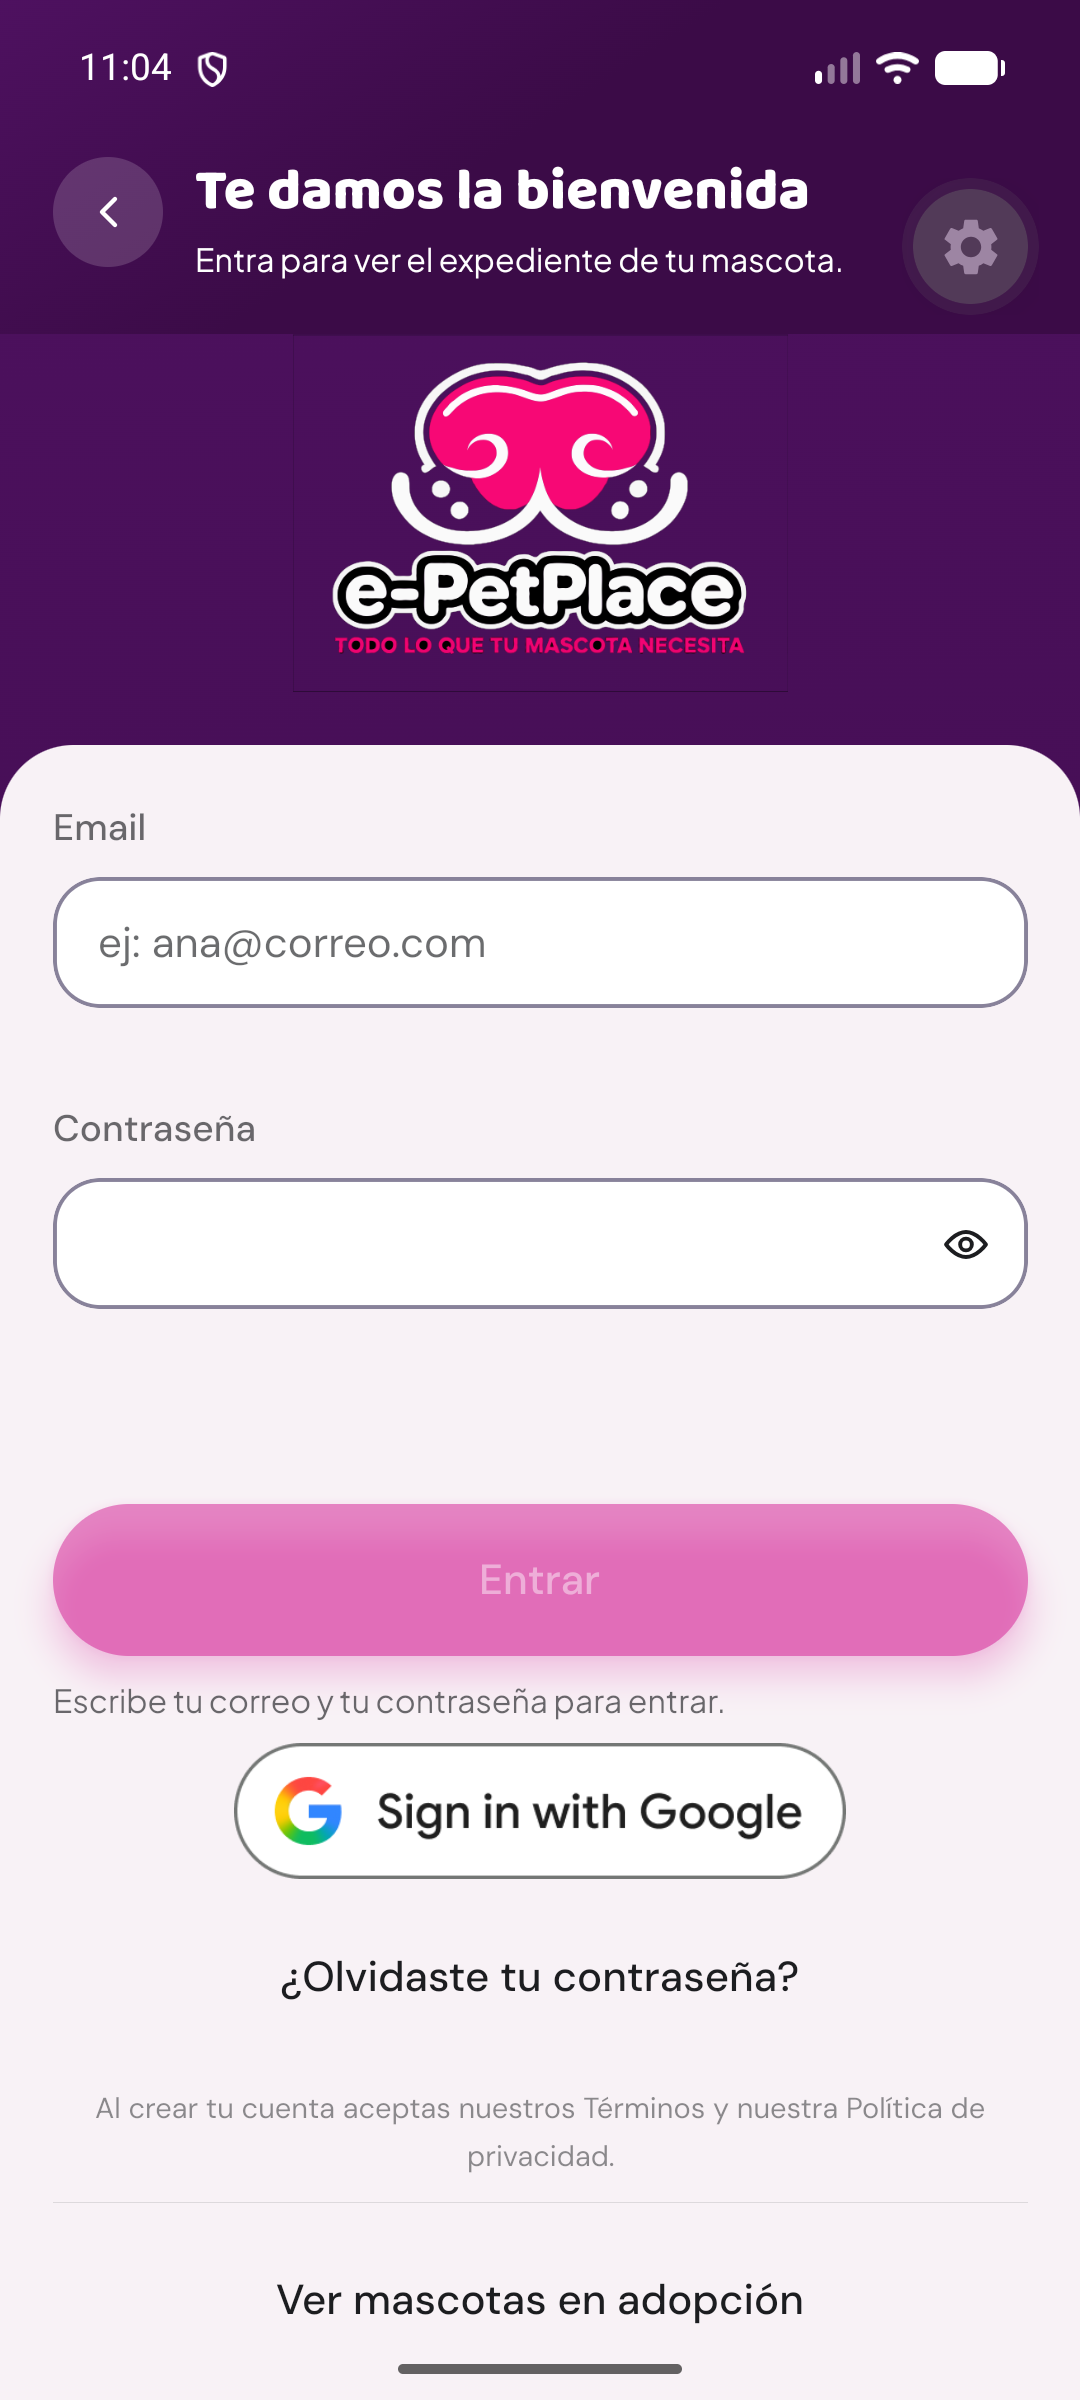
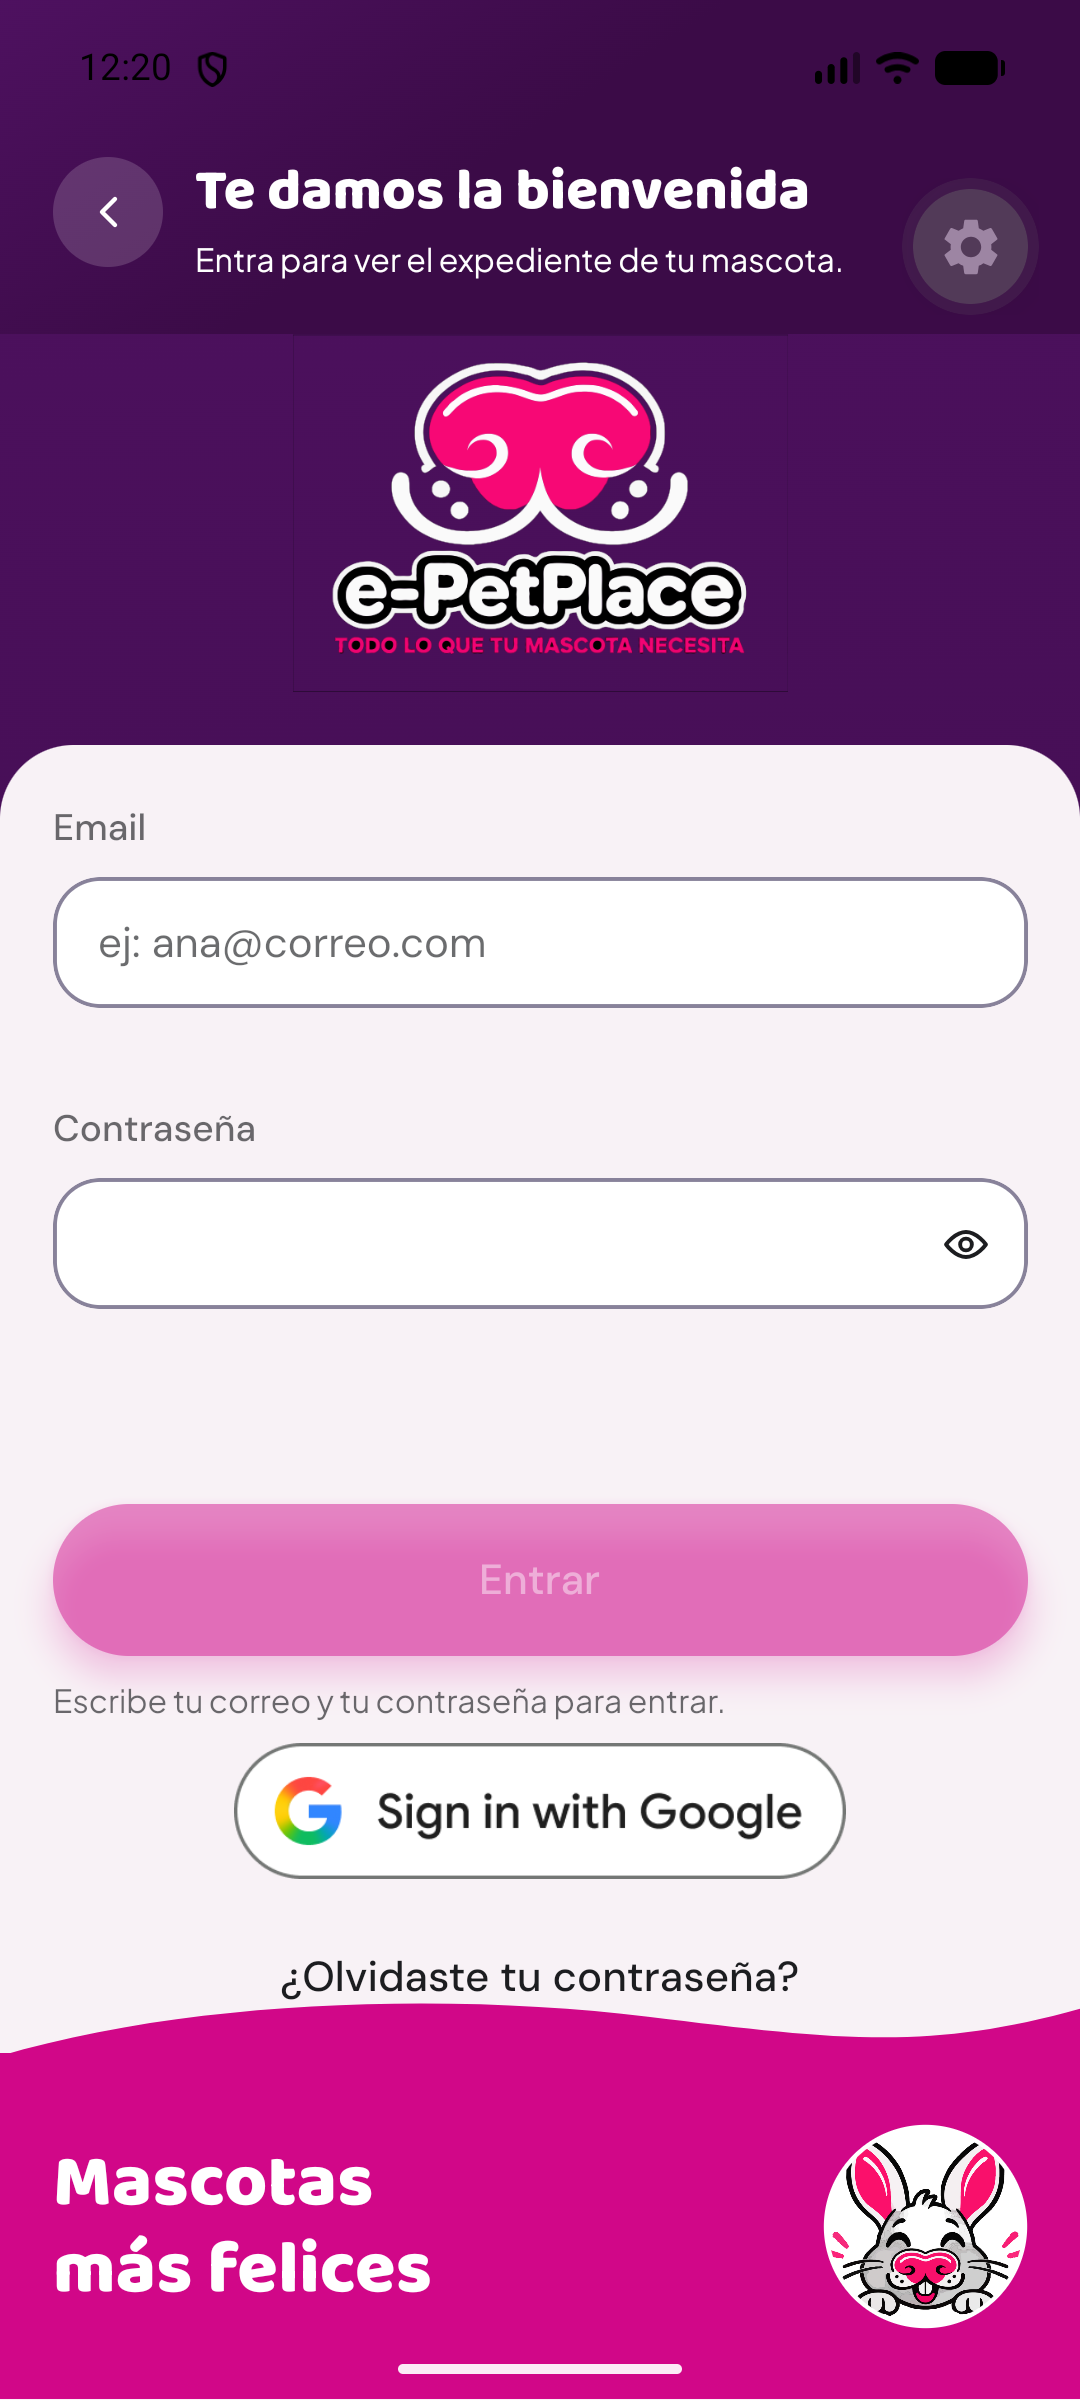
S116-C lote 3h · la onda en 03 y 05, y dos cosas que aparecieron al mirarla
OndaAcceso MONTADA Y VISTA EN EL APARATO: 03 «Mascotas / mas felices» con el
personaje a la DERECHA; 05 «Empieza / su expediente» con el personaje a la
IZQUIERDA. Va ABSOLUTA al pie y FUERA de EvitaTeclado: la pieza se cuida sola del
teclado --- alto fijo para no aplastarse, fundido para no verse salir --- y
meterla adentro la haria subir con el contenido, que es lo contrario de la orden.
El hueco lo reserva la pantalla con ALTO_ONDA_ACCESO, que la pieza exporta justo
para eso: el numero no se teclea, se pide.

⚠ Y ahi choque con R53, que pide PantallaConPie para todo pie fijo. NO APLICA:
PantallaConPie trae su PROPIO ScrollView y HojaContenido ya tiene uno ⇒ son
alternativas y no se componen. Declarado con R53-DECLARADO y su razon --- el
mecanismo que el propio gate ofrece --- y pedido a B que HojaContenido gane slot
de pie con medicion propia, con lo que la declaracion muere.

✅🔴 EL TECLADO NO LA APLASTA --- PERO SU FUNDIDO DEJA LA OLA. La mitad del alto
fijo funciona: la franja no se comprime. La otra mitad no llega a cero. Medido
por pixel, CON DISCRIMINADOR (04 no tiene onda):
      y=1505   03=(235,142,201)   04=(248,243,247)
      y=1510   03=(230,136,198)   04=(248,243,247)
Y en la ampliacion SE RECONOCE LA CURVA DE LA OLA
(onda-resto-sobre-teclado.png: 03 arriba, 04 abajo, mismo recorte).
No es mi montaje: el View absoluto no tiene opacidad propia --- el fundido es
enteramente de la pieza. Va a B con la medicion.
[…]

diff --git a/apps/cliente/src/app/registro.tsx b/apps/cliente/src/app/registro.tsx
@@ -18,12 +18,11 @@
  */
 
 import { useState } from 'react';
-import { ScrollView, Text, View } from 'react-native';
+import { Text, View } from 'react-native';
 import { useLocalSearchParams, useRouter } from 'expo-router';
-import { correoARuta, correoDeRuta } from '../lib/auth/correo-en-ruta';
-import { useAltoDeCabecera } from '@/lib/alto-de-cabecera';
 import { useSafeAreaInsets } from 'react-native-safe-area-context';
 import {
+  ALTO_ONDA_ACCESO,
   Boton,
   BotonMarcaAjena,
   Cabecera,
@@ -33,11 +32,14 @@ import {
   HojaContenido,
   HuellaDeLlegada,
   LogoV5,
+  OndaAcceso,
   Texto,
   spacing,
   useAviso,
   useTheme,
 } from '@epetplace/ui';
+import { correoARuta, correoDeRuta } from '../lib/auth/correo-en-ruta';
+import { useAltoDeCabecera } from '@/lib/alto-de-cabecera';
 import { MIN_LARGO_CONTRASENA, registrarse, type CodigoErrorAuth } from '@epetplace/api';
 
 import { entrarConGoogle } from '@/lib/auth/entrar-con-google';
@@ -210,7 +212,18 @@ export default function Registro() {
             keyboardShouldPersistTaps: 'handled',
           }}
         >
-          <View style={{ flexGrow: 1, padding: spacing[5], gap: spacing[6] }}>
+          {/* 🔴 **EL LUGAR DE LA ONDA, reservado por la pantalla.** La onda va
+              ABSOLUTA al pie, así que **no empuja el contenido**: sin este
+              hueco, lo último de la hoja queda debajo de ella. *Y el número no
+              se teclea — `ALTO_ONDA_ACCESO` se exporta justo para esto.* */}
+          <View
+            style={{
+              flexGrow: 1,
+              padding: spacing[5],
+              gap: spacing[6],
+              paddingBottom: ALTO_ONDA_ACCESO,
+            }}
+          >
           <Entrada>
             <View style={{ gap: spacing[2] }}>
               <Campo
@@ -310,6 +323,21 @@ export default function Registro() {
           </View>
         </HojaContenido>
       </EvitaTeclado>
+
+      {/* R53-DECLARADO: el alto NO se estima — `OndaAcceso` exporta
+          `ALTO_ONDA_ACCESO` (banda + ola) y es exactamente ese número el que la
+          hoja reserva arriba. `PantallaConPie` no aplica acá: trae su PROPIO
+          `ScrollView` y `HojaContenido` ya tiene uno, así que son alternativas
+          y no se componen. Pedido a B: que `HojaContenido` gane slot de pie con
+          medición propia, y esta declaración muere. */}
+      {/* ⭐ **`OndaAcceso` — S116-C lote 3h.** Va ABSOLUTA al pie y FUERA de
+          `EvitaTeclado`: **la pieza se cuida sola del teclado** (alto fijo para
+          no aplastarse + fundido para no verse salir), y meterla adentro la
+          haría subir con el contenido, que es lo contrario de lo que la orden
+          pide. Su lugar en la hoja lo reserva `paddingBottom`, arriba. */}
+      <View style={{ position: 'absolute', left: 0, right: 0, bottom: 0 }}>
+        <OndaAcceso frase={[t('registro.ondaA'), t('registro.ondaB')]} lado="izq" />
+      </View>
 
       {/* R53-DECLARADO: NO es un pie fijo — es el overlay de LLEGADA a pantalla
           completa (top:0 Y bottom:0); cubre todo durante la celebración y la

diff --git a/apps/cliente/src/app/login.tsx b/apps/cliente/src/app/login.tsx
@@ -28,14 +28,13 @@
  * completa la llegada.
  */
 
-import { useState, useCallback } from 'react';
+import { useCallback, useState } from 'react';
 import { Text, View } from 'react-native';
 import { useLocalSearchParams, useRouter } from 'expo-router';
-import { correoARuta } from '../lib/auth/correo-en-ruta';
-import { useAltoDeCabecera } from '@/lib/alto-de-cabecera';
 import { useSafeAreaInsets } from 'react-native-safe-area-context';
 import * as WebBrowser from 'expo-web-browser';
 import {
+  ALTO_ONDA_ACCESO,
   Boton,
   BotonMarcaAjena,
   Cabecera,
@@ -45,12 +44,15 @@ import {
   HojaContenido,
   HuellaDeLlegada,
   LogoV5,
+  OndaAcceso,
   Separador,
   spacing,
   typography,
   useAviso,
   useTheme,
 } from '@epetplace/ui';
+import { correoARuta } from '../lib/auth/correo-en-ruta';
+import { useAltoDeCabecera } from '@/lib/alto-de-cabecera';
 import { iniciarSesion } from '@epetplace/api';
 import { entrarConGoogle } from '@/lib/auth/entrar-con-google';
 
@@ -256,6 +258,13 @@ export default function Login() {
               padding: spacing[5],
               gap: spacing[6],
               flexGrow: 1,
+              /* 🔴 **EL LUGAR DE LA ONDA, reservado por la pantalla.**
+                 `ALTO_ONDA_ACCESO` es lo que la pieza ocupa de punta a punta
+                 (banda + ola) y se exporta justo para esto: la onda va
+                 ABSOLUTA al pie, así que **no empuja el contenido** — sin este
+                 hueco, lo último de la hoja queda debajo de ella. *Y el número
+                 no se teclea: se pide.* */
+              paddingBottom: ALTO_ONDA_ACCESO,
             }}
           >
           <Entrada>
@@ -407,6 +416,21 @@ export default function Login() {
           </View>
         </HojaContenido>
       </EvitaTeclado>
+
+      {/* R53-DECLARADO: el alto NO se estima — `OndaAcceso` exporta
+          `ALTO_ONDA_ACCESO` (banda + ola) y es exactamente ese número el que la
+          hoja reserva arriba. `PantallaConPie` no aplica acá: trae su PROPIO
+          `ScrollView` y `HojaContenido` ya tiene uno, así que son alternativas
+          y no se componen. Pedido a B: que `HojaContenido` gane slot de pie con
+          medición propia, y esta declaración muere. */}
+      {/* ⭐ **`OndaAcceso` — S116-C lote 3h.** Va ABSOLUTA al pie y FUERA de
+          `EvitaTeclado`: **la pieza se cuida sola del teclado** (alto fijo para
+          no aplastarse + fundido para no verse salir), y meterla adentro la
+          haría subir con el contenido, que es lo contrario de lo que la orden
+          pide. Su lugar en la hoja lo reserva `paddingBottom`, arriba. */}
+      <View style={{ position: 'absolute', left: 0, right: 0, bottom: 0 }}>
+        <OndaAcceso frase={[t('login.ondaA'), t('login.ondaB')]} lado="der" />
+      </View>
 
       {/* §5 · LA LLEGADA — la huella se completa una vez, sobre el tapiz.
           R53-DECLARADO: NO es un pie fijo — es un overlay de PANTALLA COMPLETA

diff --git a/apps/cliente/src/i18n/es.ts b/apps/cliente/src/i18n/es.ts
@@ -271,6 +271,8 @@ export const clienteEs = {
     probarDeNuevo: 'Probar de nuevo',
   },
   login: {
+    ondaA: 'Mascotas',
+    ondaB: 'más felices',
     verAdopcion: 'Ver mascotas en adopción',
     olvide: '¿Olvidaste tu contraseña?',
     titulo: 'Iniciar sesión',
@@ -315,6 +317,8 @@ export const clienteEs = {
     cambiarCorreo: '¿Correo equivocado? Cambiarlo',
   },
   registro: {
+    ondaA: 'Empieza',
+    ondaB: 'su expediente',
     titulo: 'Crear cuenta',
     saludo: 'Crea tu cuenta',
     oRegistrateCon: 'O regístrate con',

diff --git a/apps/cliente/src/i18n/en.ts b/apps/cliente/src/i18n/en.ts
@@ -178,6 +178,8 @@ export const clienteEn = {
     probarDeNuevo: 'Try again',
   },
   login: {
+    ondaA: 'Happier',
+    ondaB: 'pets',
     verAdopcion: 'See pets up for adoption',
     olvide: 'Forgot your password?',
     titulo: 'Sign in',
@@ -211,6 +213,8 @@ export const clienteEn = {
     cambiarCorreo: 'Wrong email? Change it',
   },
   registro: {
+    ondaA: 'Start',
+    ondaB: 'their record',
     titulo: 'Create account',
     saludo: 'Create your account',
     oRegistrateCon: 'Or sign up with',

diff --git a/docs/loop/S116-C-LOTE3.md b/docs/loop/S116-C-LOTE3.md
@@ -625,6 +625,70 @@ así que no lo hago sin firma.*
 
 ---
 
+## ⑱ LOTE 3h · LA ONDA, Y DOS COSAS QUE APARECIERON AL MIRARLA
+
+### ⑱.1 · `OndaAcceso` montada en 03 y 05
+
+03: «Mascotas / más felices», personaje a la **derecha**.
+05: «Empieza / su expediente», personaje a la **izquierda**. Las dos vistas en
+el aparato.
+
+**Va ABSOLUTA al pie y FUERA de `EvitaTeclado`**, a propósito: la pieza se cuida
+sola del teclado —alto fijo para no aplastarse, fundido para no verse salir— y
+meterla adentro la haría subir con el contenido, que es lo contrario de lo que
+pide la orden. **El hueco lo reserva la pantalla con `ALTO_ONDA_ACCESO`**, que
+la pieza exporta justo para eso: *el número no se teclea, se pide.*
+
+⚠ **Y ahí choqué con `R53`**, que pide `PantallaConPie` para todo pie fijo.
+**No aplica acá: `PantallaConPie` trae su PROPIO `ScrollView` y
+`HojaContenido` ya tiene uno** ⇒ son alternativas, no se componen. Declarado con
+`R53-DECLARADO` y su razón —el mecanismo que el propio gate ofrece— y pedido a B
+que `HojaContenido` gane slot de pie con medición propia, con lo que la
+declaración muere.
+
+### ⑱.2 · ✅ EL TECLADO NO LA APLASTA — 🔴 pero deja la ola
+
+**La mitad del alto fijo funciona**: con el teclado arriba la franja no se
+comprime. **La otra mitad no llega a cero.**
+
+Medido por pixel, **con discriminador** (04 no tiene onda):
+
+| y | 03 | 04 |
+|--:|---|---|
+| 1505 | **(235, 142, 201)** | (248, 243, 247) |
+| 1510 | **(230, 136, 198)** | (248, 243, 247) |
+
+Y en la ampliación **se reconoce la curva de la ola**
+(`onda-resto-sobre-teclado.png`, 03 arriba y 04 abajo, mismo recorte).
+
+*No es mi montaje:* el `View` absoluto no tiene opacidad propia — el fundido es
+enteramente de la pieza. **Va a B con la medición.**
+
+### ⑱.3 · 🔴 EL BRILLO DEL ASISTENTE DEJA LA PANTALLA PERMANENTEMENTE NO-IDLE
+
+`uiautomator dump` sobre cualquier raíz devuelve **`ERROR: could not get idle
+state`**. **Discriminado:** en la Hoja que tapa el orbe responde
+`UI hierchary dumped`; en 03 y 04, que no tienen orbe, también. **Con el orbe a
+la vista, nunca.**
+
+Ese «idle» es el mismo que usa el árbol de accesibilidad de Android ⇒ **una
+animación que no termina nunca deja la ventana ocupada para todo lo que espere
+reposo.** *No es un defecto visual —el brillo se ve bien— es una propiedad del
+sistema que cambia sin que nada falle.* Si la casa lo quiere infinito es una
+decisión válida, **pero hoy no está escrita**, y el próximo que vea el `ERROR`
+va a buscar el problema en su arnés, como hice yo.
+
+### ⑱.4 · El foco en ciruela y el brillo, capturados
+
+- **Foco**: `03-foco-y-teclado.png` y `07-foco.png` — el borde ciruela del campo
+  enfocado, en las dos pantallas.
+- **Brillo**: `mov-asistente-brillo.gif`, el orbe con su halo en la raíz del
+  hogar.
+- **El logo claro ya no tiene caja blanca**: re-medido del objeto tras el merge,
+  su esquina pasó de **alfa 255 a 37**. La cura de B llegó.
+
+---
+
 ## ⑰ LA VARA — LAS ONCE PREGUNTAS, con la 11 que nació de mi defecto
 
 > La **11** (*«se usó, no se fotografió»*) la firmó la mesa el 13-sep **sobre el

diff --git a/docs/loop/buzon/S116-C-para-B-estructura-nueva-y-portada.md b/docs/loop/buzon/S116-C-para-B-estructura-nueva-y-portada.md
@@ -154,3 +154,68 @@ no— y va con firma, no de callado.
 `Citas · Pasaporte y QR · Documentos · Cuéntanos`
 (`FilaAcciones`, `[mascotaId].tsx:1505`), y **«Pasaporte y QR» pasa a
 «Pasaporte»** por firma del founder.
+
+---
+
+# ADENDA 2 · 14-sep — `OndaAcceso` montada, y DOS hallazgos medidos
+
+## ⓵ 🔴 EL BRILLO DEL ASISTENTE DEJA LA PANTALLA PERMANENTEMENTE NO-IDLE
+
+`uiautomator dump` sobre cualquier raíz del cliente devuelve:
+
+```
+ERROR: could not get idle state.
+```
+
+**Discriminado, no supuesto:** en la Hoja de confirmación de «Cerrar sesión»
+—que tapa el orbe— el mismo comando responde `UI hierchary dumped`. En 03 y 04,
+que no tienen orbe, también funciona. **Con el orbe a la vista, nunca.**
+
+**Por qué importa más allá de mi arnés:** ese «idle» es el mismo que usa el
+árbol de accesibilidad de Android. Una animación que **no termina nunca** deja
+la ventana permanentemente ocupada, y eso afecta a todo lo que espere reposo —
+herramientas de prueba automatizada y, potencialmente, tecnología asistiva.
+
+*No lo reporto como defecto visual: el brillo se ve bien. Lo reporto como una
+propiedad del sistema que una animación infinita cambia sin que nada falle.*
+**Si la casa lo quiere infinito, es una decisión válida y conviene que esté
+escrita** — hoy no lo está, y el próximo que vea el `ERROR` va a buscar el
+problema en su arnés, como hice yo.
+
+## ⓶ 🔴 LA ONDA NO SE APLASTA — PERO SU FUNDIDO DEJA LA OLA SOBRE EL TECLADO
+
+La mitad del alto fijo **funciona**: con el teclado arriba la franja no se
+comprime. La otra mitad no llega a cero.
+
+**Medido por pixel, con discriminador:**
+
+| y | 03 (con onda) | 04 (sin onda) |
+|--:|---|---|
+| 1505 | **(235, 142, 201)** | (248, 243, 247) |
+| 1510 | **(230, 136, 198)** | (248, 243, 247) |
+| 1515 | **(224, 132, 192)** | (240, 234, 238) |
+
+Y en la captura ampliada **se reconoce la curva de la ola**.
+Evidencia: `docs/loop/capturas-s116-c/onda-resto-sobre-teclado.png` (03 arriba,
+04 abajo, mismo recorte).
+
+⚠ **Es rosa lavado, no `magentaAccion` pleno** ⇒ parece opacidad parcial, no un
+trozo de banda a opacidad completa. *Pero eso último es inferencia mía: lo
+medido es el color y la forma.*
+
+**Lo que NO es:** no es mi montaje. La onda va en un `View` absoluto
+`bottom: 0` sin opacidad propia — el fundido es enteramente de la pieza
+(`visible` sobre el `Animated.View` raíz).
+
+## ⓷ Y una cosa que sí funcionó y conviene decir
+
+`ALTO_ONDA_ACCESO` exportado **resolvió el problema entero de la reserva**: las
+dos pantallas reservan el hueco con el número de la pieza, sin estimarlo.
+⚠ Eso me hizo chocar con **`R53`**, que pide `PantallaConPie` — y **no aplica
+acá: `PantallaConPie` trae su PROPIO `ScrollView` y `HojaContenido` ya tiene
+uno**, así que son alternativas y no se componen. Declaré la excepción con
+`R53-DECLARADO` y su razón.
+
+⇒ **pedido concreto: que `HojaContenido` gane un slot `pie` con medición
+propia**, como `PantallaConPie`. Con eso la declaración muere y el alto deja de
+depender de que el consumidor se acuerde de reservarlo.

diff --git a/docs/CATALOGO_PIEZAS_V5.md b/docs/CATALOGO_PIEZAS_V5.md
@@ -50,7 +50,7 @@
 ### `OndaAcceso`
 - **props:** `frase` (dos líneas) · `lado` (`izq`|`der`) · `especies?`
 - **tokens:** `palette.magentaAccion` · `motion.v5.personajePrimeraMs` · `motion.v5.personajeCadaMs` · `motion.v5.personajeFundidoMs` · `spacing`
-- **consumidores:** 0 · su lugar es el pie del acceso y del alta
+- **consumidores:** 2 · su lugar es el pie del acceso y del alta
 - **exporta:** `ALTO_ONDA_ACCESO` — quien la monte al pie de una hoja que scrollea **tiene que reservarle el lugar**, igual que con los dos altos de `Cabecera`.
 - 🔴 **La ola es un `Path`, no un `borderRadius`:** un radio da un DOMO —simétrico, una sola inflexión— y *una ola tiene dos*. El `viewBox` de 100 con `preserveAspectRatio="none"` la estira con la pantalla en vez de repetirla.
 - 🔴 **La frase llega YA PARTIDA en dos líneas.** Dónde corta es una decisión de redacción; un `numberOfLines={2}` la tomaría por su cuenta con el ancho de cada teléfono.
